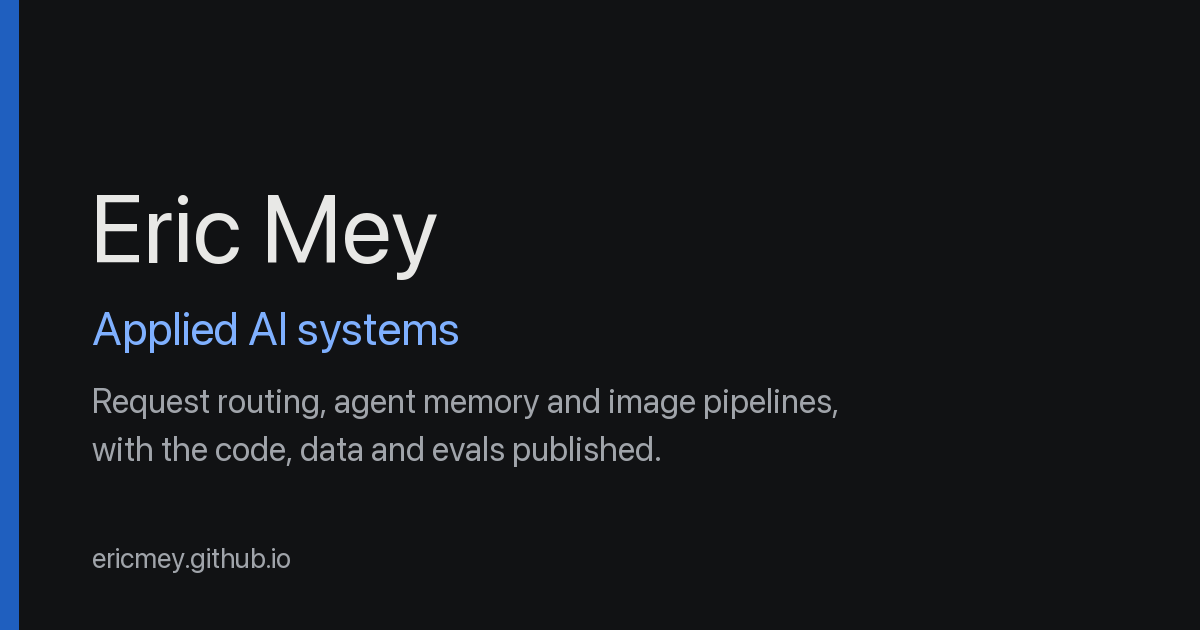
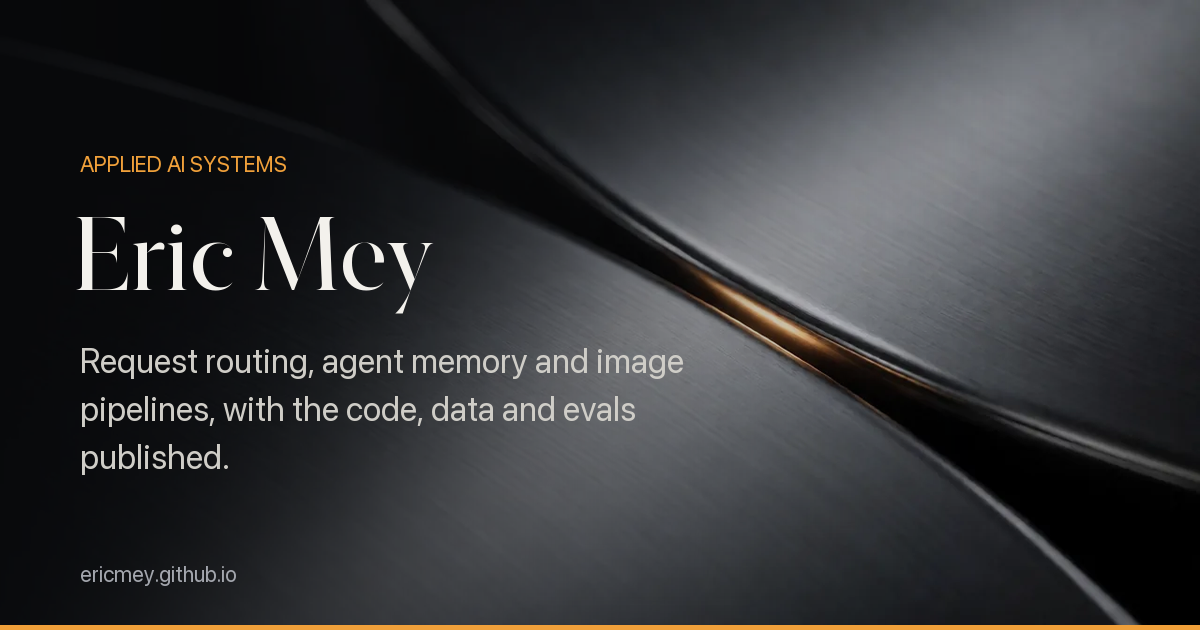
polish: AA amber text token, aria-pressed theme toggle, OG card in the new identity, README for importer and design

diff --git a/src/styles/global.css b/src/styles/global.css
@@ -5,7 +5,7 @@
 /* Graphite + amber, taken from Eric's profile banner. */
 :root {
   --paper: #f6f4ef; --ink: #17171a; --muted: #5c5f66; --line: #e2ded5;
-  --card: #fffdf9; --tag: #eeeae1; --amber: #c9731a; --amber-soft: #f3d9b8;
+  --card: #fffdf9; --tag: #eeeae1; --amber: #c9731a; --amber-text: #9c560c; --amber-soft: #f3d9b8;
   --link: #9a5712; --shadow: 0 1px 2px rgb(0 0 0 / 0.04), 0 8px 24px rgb(0 0 0 / 0.06);
   --display: 'Fraunces Variable', Georgia, serif;
   --sans: 'Inter Variable', ui-sans-serif, system-ui, sans-serif;
@@ -14,14 +14,14 @@
 }
 :root[data-theme='dark'] {
   --paper: #0f1012; --ink: #ecebe7; --muted: #a3a6ad; --line: #26282d;
-  --card: #16171a; --tag: #202227; --amber: #f0a03a; --amber-soft: #3a2a14;
+  --card: #16171a; --tag: #202227; --amber: #f0a03a; --amber-text: #f0a03a; --amber-soft: #3a2a14;
   --link: #f3b35c; --shadow: 0 1px 2px rgb(0 0 0 / 0.3), 0 12px 32px rgb(0 0 0 / 0.35);
 }
 * { box-sizing: border-box; }
 html { background: var(--paper); color: var(--ink); scroll-behavior: smooth; }
 body { margin: 0; font-family: var(--sans); font-size: 1.0625rem; line-height: 1.65; -webkit-font-smoothing: antialiased; }
 a { color: var(--link); text-decoration-thickness: 1px; text-underline-offset: 0.18em; }
-a:hover { color: var(--amber); }
+a:hover { color: var(--amber-text); }
 img { max-width: 100%; display: block; }
 .wrap { max-width: var(--max); margin: 0 auto; padding: 0 1.25rem; }
 .narrow { max-width: 46rem; }
@@ -31,7 +31,7 @@ header.site { position: sticky; top: 0; z-index: 10; backdrop-filter: saturate(1
   background: color-mix(in srgb, var(--paper) 82%, transparent); border-bottom: 1px solid var(--line); }
 header.site .wrap { display: flex; align-items: center; justify-content: space-between; gap: 1rem; height: 3.75rem; }
 .brand { font-family: var(--display); font-weight: 600; font-size: 1.25rem; color: var(--ink); text-decoration: none; letter-spacing: -0.01em; }
-.brand span { color: var(--amber); }
+.brand span { color: var(--amber-text); }
 nav.main { display: flex; align-items: center; gap: 1.25rem; }
 nav.main a { color: var(--muted); text-decoration: none; font-size: 0.95rem; }
 nav.main a[aria-current='page'], nav.main a:hover { color: var(--ink); }
@@ -80,13 +80,13 @@ h2 { font-size: clamp(1.6rem, 3vw, 2.1rem); font-weight: 600; margin: 0; }
 .card { position: relative; }
 .card p { margin: 0; color: var(--muted); font-size: 0.97rem; }
 .meta { font-family: var(--mono); font-size: 0.78rem; color: var(--muted); letter-spacing: 0.02em; margin-top: auto; }
-.venue { color: var(--amber); }
+.venue { color: var(--amber-text); }
 .tags { display: flex; flex-wrap: wrap; gap: 0.35rem; margin: 0.25rem 0 0; padding: 0; list-style: none; }
 .tags li { font-family: var(--mono); font-size: 0.72rem; background: var(--tag); color: var(--muted); border-radius: 6px; padding: 0.12rem 0.5rem; }
 
 /* Project cards: an amber rule instead of an image */
 .project { border-top: 3px solid var(--amber); }
-.project .kicker { font-family: var(--mono); font-size: 0.75rem; text-transform: uppercase; letter-spacing: 0.12em; color: var(--amber); }
+.project .kicker { font-family: var(--mono); font-size: 0.75rem; text-transform: uppercase; letter-spacing: 0.12em; color: var(--amber-text); }
 
 /* News */
 .news { list-style: none; margin: 0; padding: 0; border-left: 2px solid var(--line); }
@@ -118,4 +118,4 @@ footer.site nav { display: flex; gap: 1.1rem; flex-wrap: wrap; }
   background: linear-gradient(90deg, transparent, #f0a03a 50%, transparent); box-shadow: 0 0 18px #f0a03a; }
 /* News: quieter links */
 .news a { color: var(--ink); text-decoration: none; }
-.news a:hover { color: var(--amber); text-decoration: underline; }
+.news a:hover { color: var(--amber-text); text-decoration: underline; }

diff --git a/README.md b/README.md
@@ -22,7 +22,19 @@ evidence:            # every public claim should point at something checkable
 Body in Markdown.
 ```
 
-## Add an article
+## Import published articles
+
+Articles Eric has published (LinkedIn, Hugging Face) live as packets on the posted shelf
+(`~/Vaults/Eric/Journal/Publications/posted/YYYYMMDD-slug/`). Pull them in, with covers:
+
+```bash
+uv run --with pillow --with pyyaml python scripts/import_posted.py
+```
+
+This regenerates `src/content/articles/<slug>.md` and `public/covers/<slug>.webp` from the
+shelf, so re-running is safe. Commit the result.
+
+## Add an article by hand
 
 Create `src/content/articles/<slug>.md`. For an article published elsewhere, set `url` and leave the body empty. For one hosted here, omit `url` and write the body.
 
@@ -46,4 +58,13 @@ npm run dev      # http://localhost:4321
 npm run build    # static output in dist/
 ```
 
-Site-wide name, tagline and links live in `src/site.ts`.
+Site-wide name, tagline and links live in `src/site.ts`. Dated milestones for the home-page
+News list live in `src/data/news.ts` (published articles are added to News automatically).
+
+## Design
+
+Graphite and amber, taken from Eric's profile banner. Tokens are at the top of
+`src/styles/global.css`. `--amber` is decorative (rules, glows, buttons), and `--amber-text` is
+the AA-contrast variant for any amber text. Fonts are self-hosted via Fontsource:
+Fraunces (display), Inter (body), JetBrains Mono (meta), all OFL. The theme toggle persists
+in `localStorage` and defaults to the OS preference.
